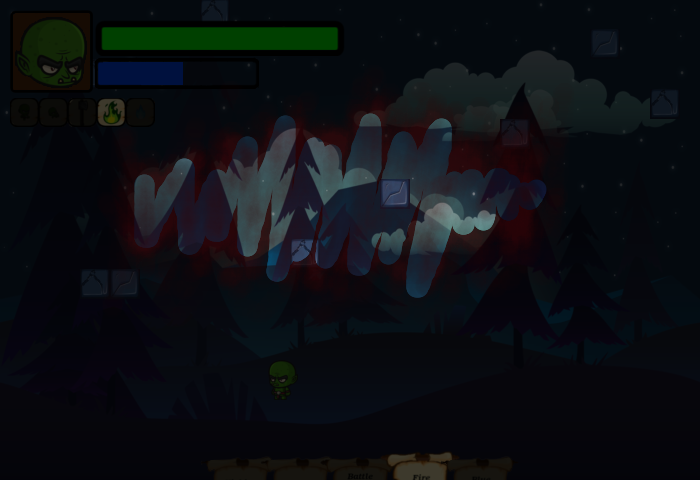
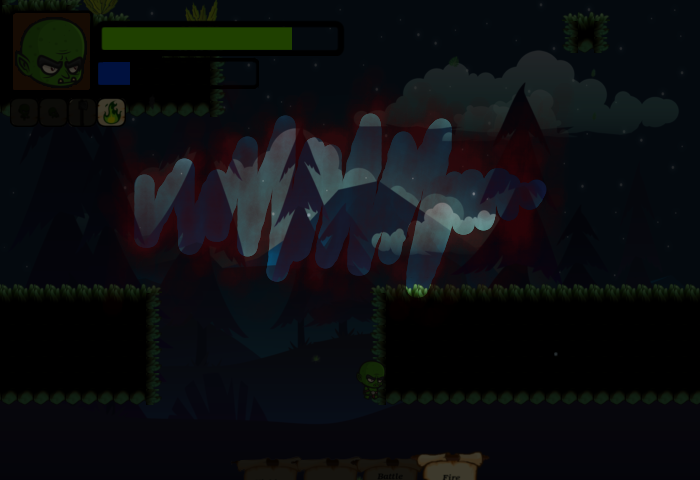
Ajusting the fire attack on the game

diff --git a/data/gameplay/enimy/__init__.py b/data/gameplay/enimy/__init__.py
@@ -15,7 +15,7 @@ class ControlEnimys(object):
         self.count = 0
         self.addingAllTheAnimys()
 
-    def enimysAdd(self, tile_rects, player_rect,fireCollision, scroll):
+    def enimysAdd(self, tile_rects, player_rect,fireCollision,playerAttack,scroll):
         all_rects = []
         self.count = 0
         fireColid = False
@@ -24,7 +24,6 @@ class ControlEnimys(object):
         if fireCollision[0]:
             fireColid = True
             enimyFiredPos = fireCollision[1]
-            # del all_rects[fireCollision[1]]
         else:
             fireColid = False
         self.calculatingEnimyDelete(fireColid,enimyFiredPos, scroll)
@@ -33,8 +32,8 @@ class ControlEnimys(object):
             for (pos, enimy) in zip(self.positions, self.allEnimys):
                 if(pos[0] in range(scroll[0]-450, scroll[0]+650)):
                     all_rects.append(enimy.add(tile_rects,player_rect, scroll))
+                    # playerAttack[0],
                     self.count += 1
-        print(self.killAttempt)
         return all_rects
     def addingAllTheAnimys(self):
         if(self.nivel == 0):
@@ -169,23 +168,20 @@ class ControlEnimys(object):
             # self.positions = [(1448, 168),(1595, 168),(2718, 408),(2750, 296),(4014, 296),(4710, 584), (4870, 584)] 
 
     def calculatingEnimyDelete(self,fireColid, pos, scroll):
-        onlyOne = False
         i = 0
         if(len(self.positions)!=0):
             for (position, enimy, attemp) in zip(self.positions, self.allEnimys, self.killAttempt):
-                print(type(attemp))
                 if(position[0] in range(scroll[0]-450, scroll[0]+650)):
-                    if fireColid and not onlyOne:
-                        if(self.allEnimys[pos].name != 'cactus'):
-                            if(attemp == 0):
-                                del self.allEnimys[pos]
-                                del self.positions[pos]
-                                del self.killAttempt[pos]
-                            else:
-                                attemp -= 1
-                                self.killAttempt[i] = attemp
-                        onlyOne = True           
+                    if fireColid:
+                        if(enimy.name != 'cactus'):
+                                if(attemp <= 0):
+                                    self.allEnimys.pop(pos)
+                                    self.positions.pop(pos)
+                                    self.killAttempt.pop(pos)
+                                else:
+                                        self.killAttempt[i] = self.killAttempt[i] - 1           
                 elif(position[0] < scroll[0]):
-                    del self.allEnimys[0]
-                    del self.positions[0]
-            i += 1  
+                    self.allEnimys.pop(0)
+                    self.positions.pop(0)
+                    self.killAttempt.pop(0)
+                i += 1  

diff --git a/data/gameplay/__init__.py b/data/gameplay/__init__.py
@@ -32,7 +32,7 @@ class GamePlay(object):
         self.enimyCollision = False
         self.enimyType = ''
         self.allEnimysRectsAndTypes = []
-        self.ptforStart = True     
+        self.playerOnAttack = False
 
     
     # method to display all the components in the platform
@@ -42,7 +42,7 @@ class GamePlay(object):
         self.scroll, self.player_rect,self.fireArray, self.enimyCollision, self.enimyType, self.fireEnimyColision, self.fireCollsionPos  = self.player.settingPlayer(tile_rects, self.scroll, self.allEnimysRectsAndTypes, self.inUse)
 
         # update after we check the collision
-        self.allEnimysRectsAndTypes = self.enimys.enimysAdd(tile_rects, self.player_rect,(self.fireEnimyColision, self.fireCollsionPos), self.scroll)
+        self.allEnimysRectsAndTypes = self.enimys.enimysAdd(tile_rects, self.player_rect,(self.fireEnimyColision, self.fireCollsionPos),(self.playerOnAttack, self.inUse), self.scroll)
 
         # Drawing some visual animation
         self.animation.draw()
